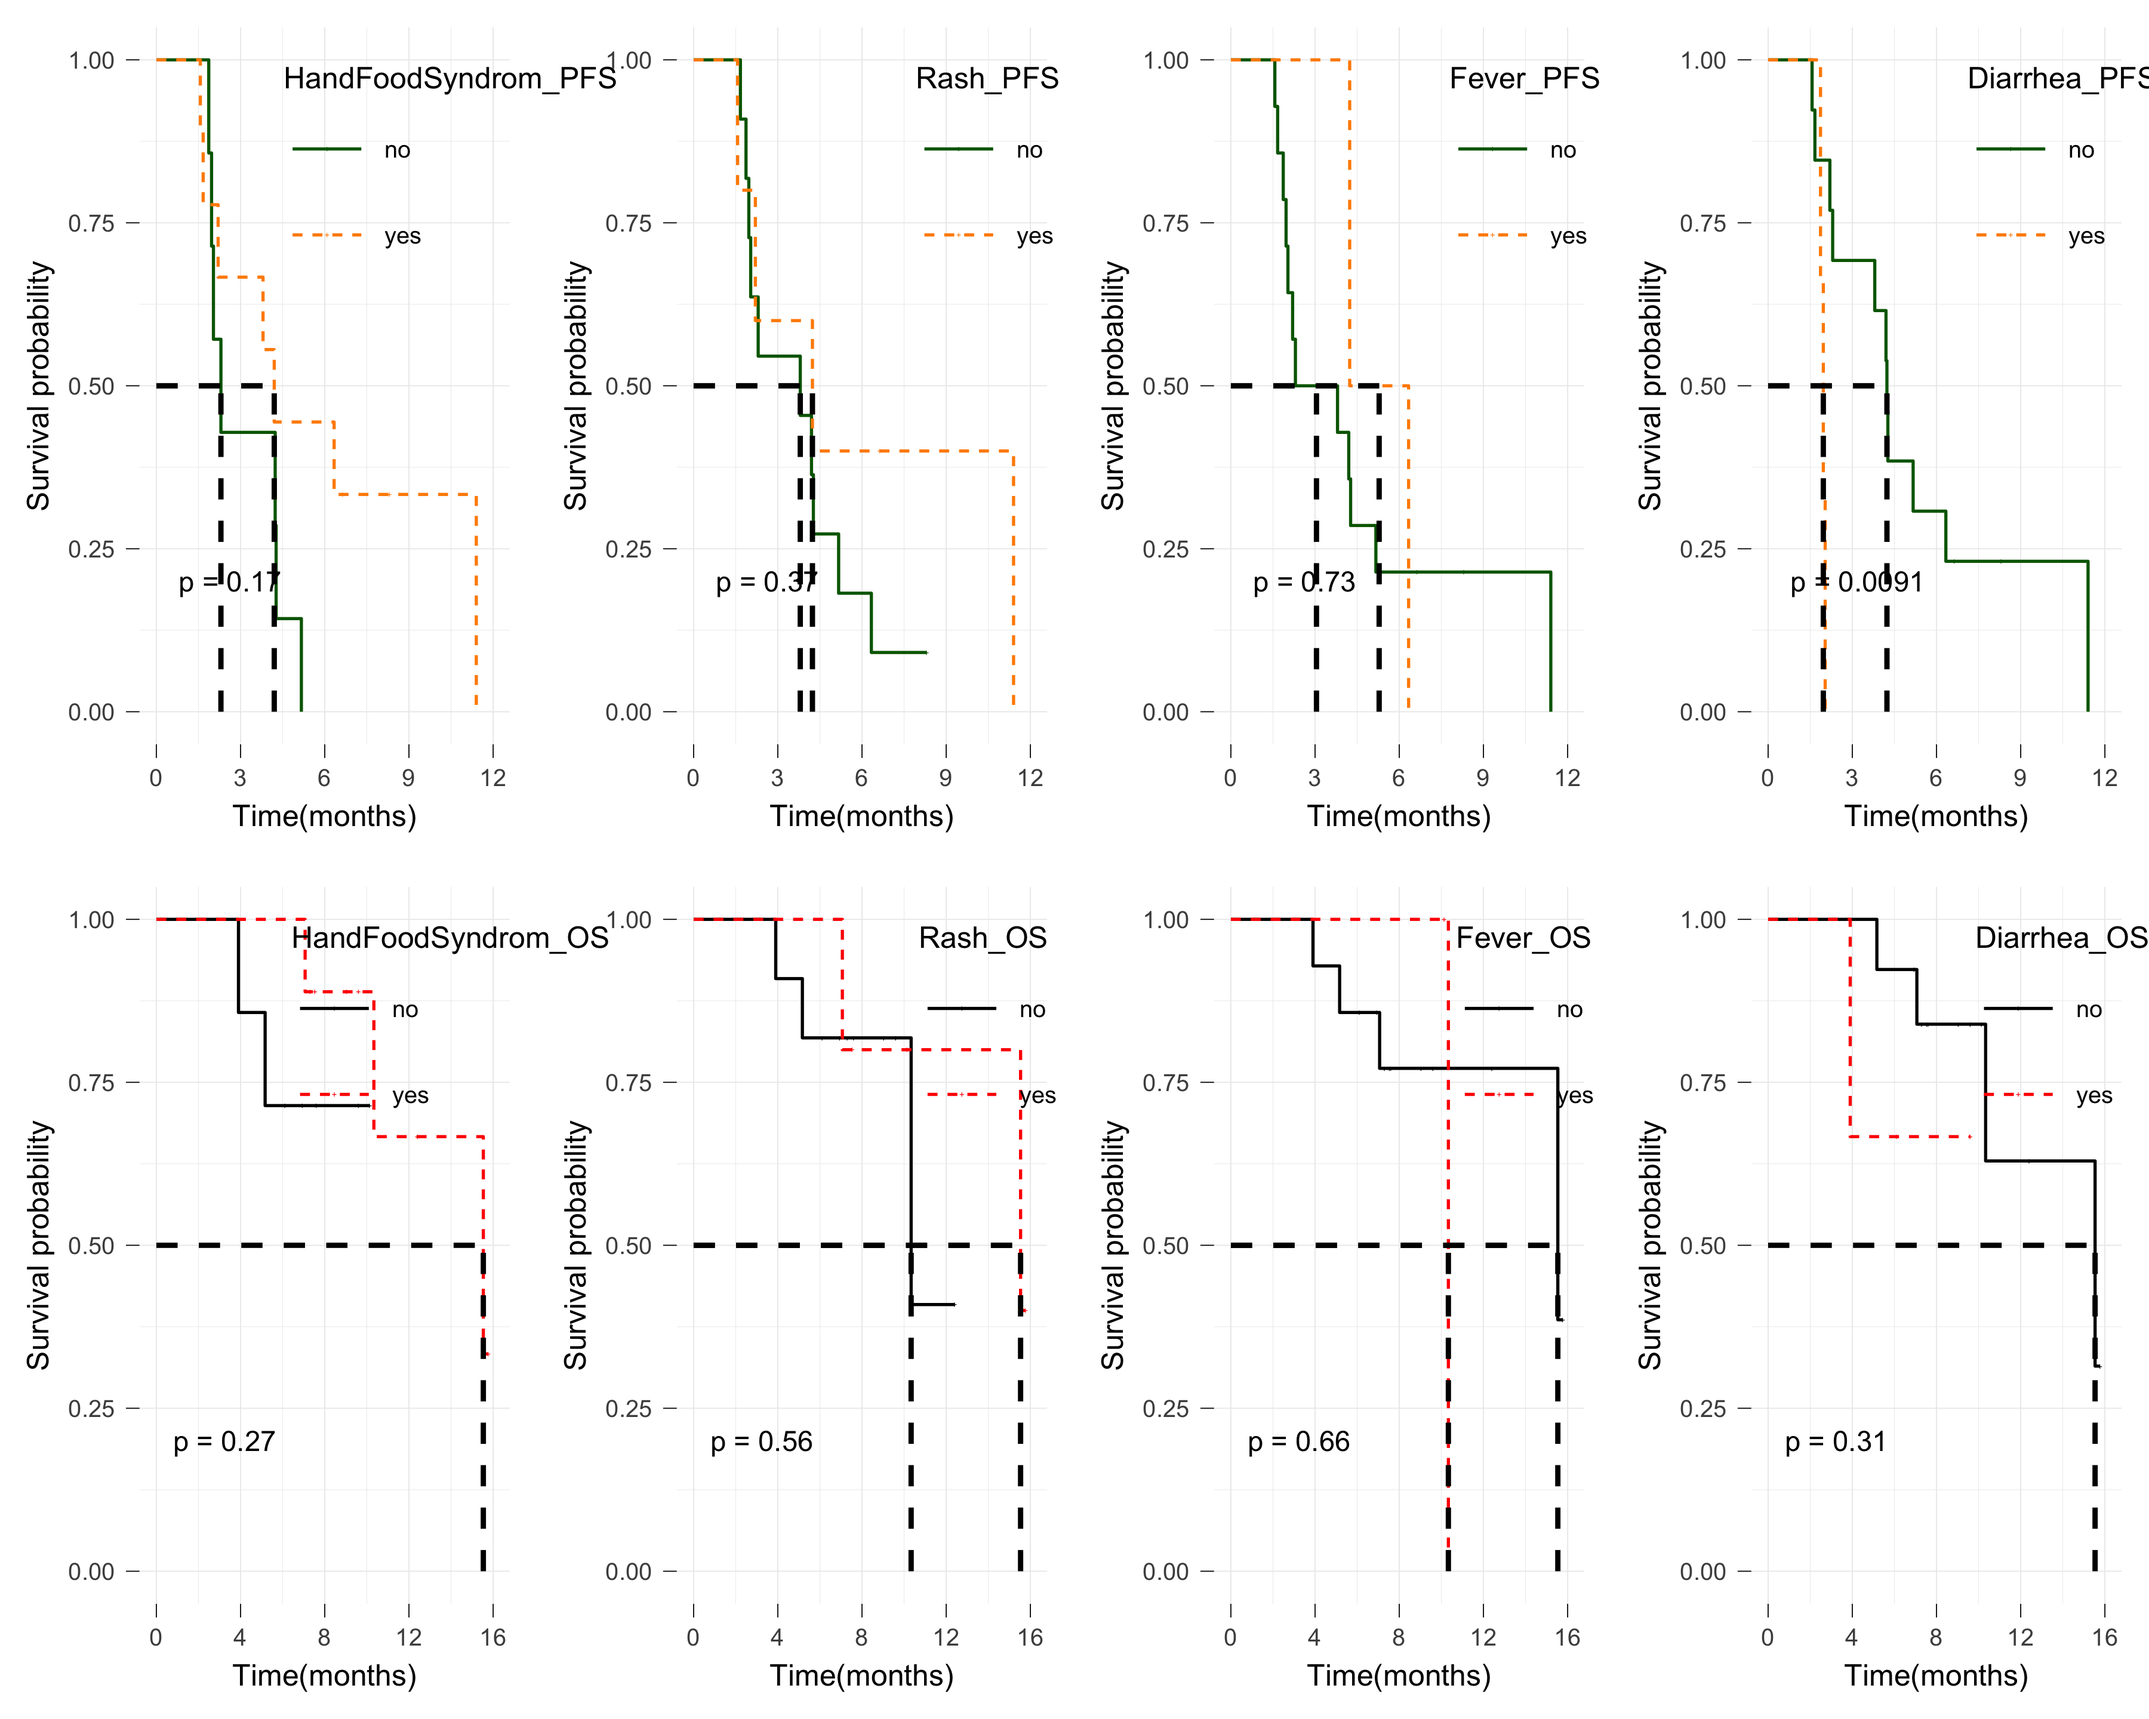
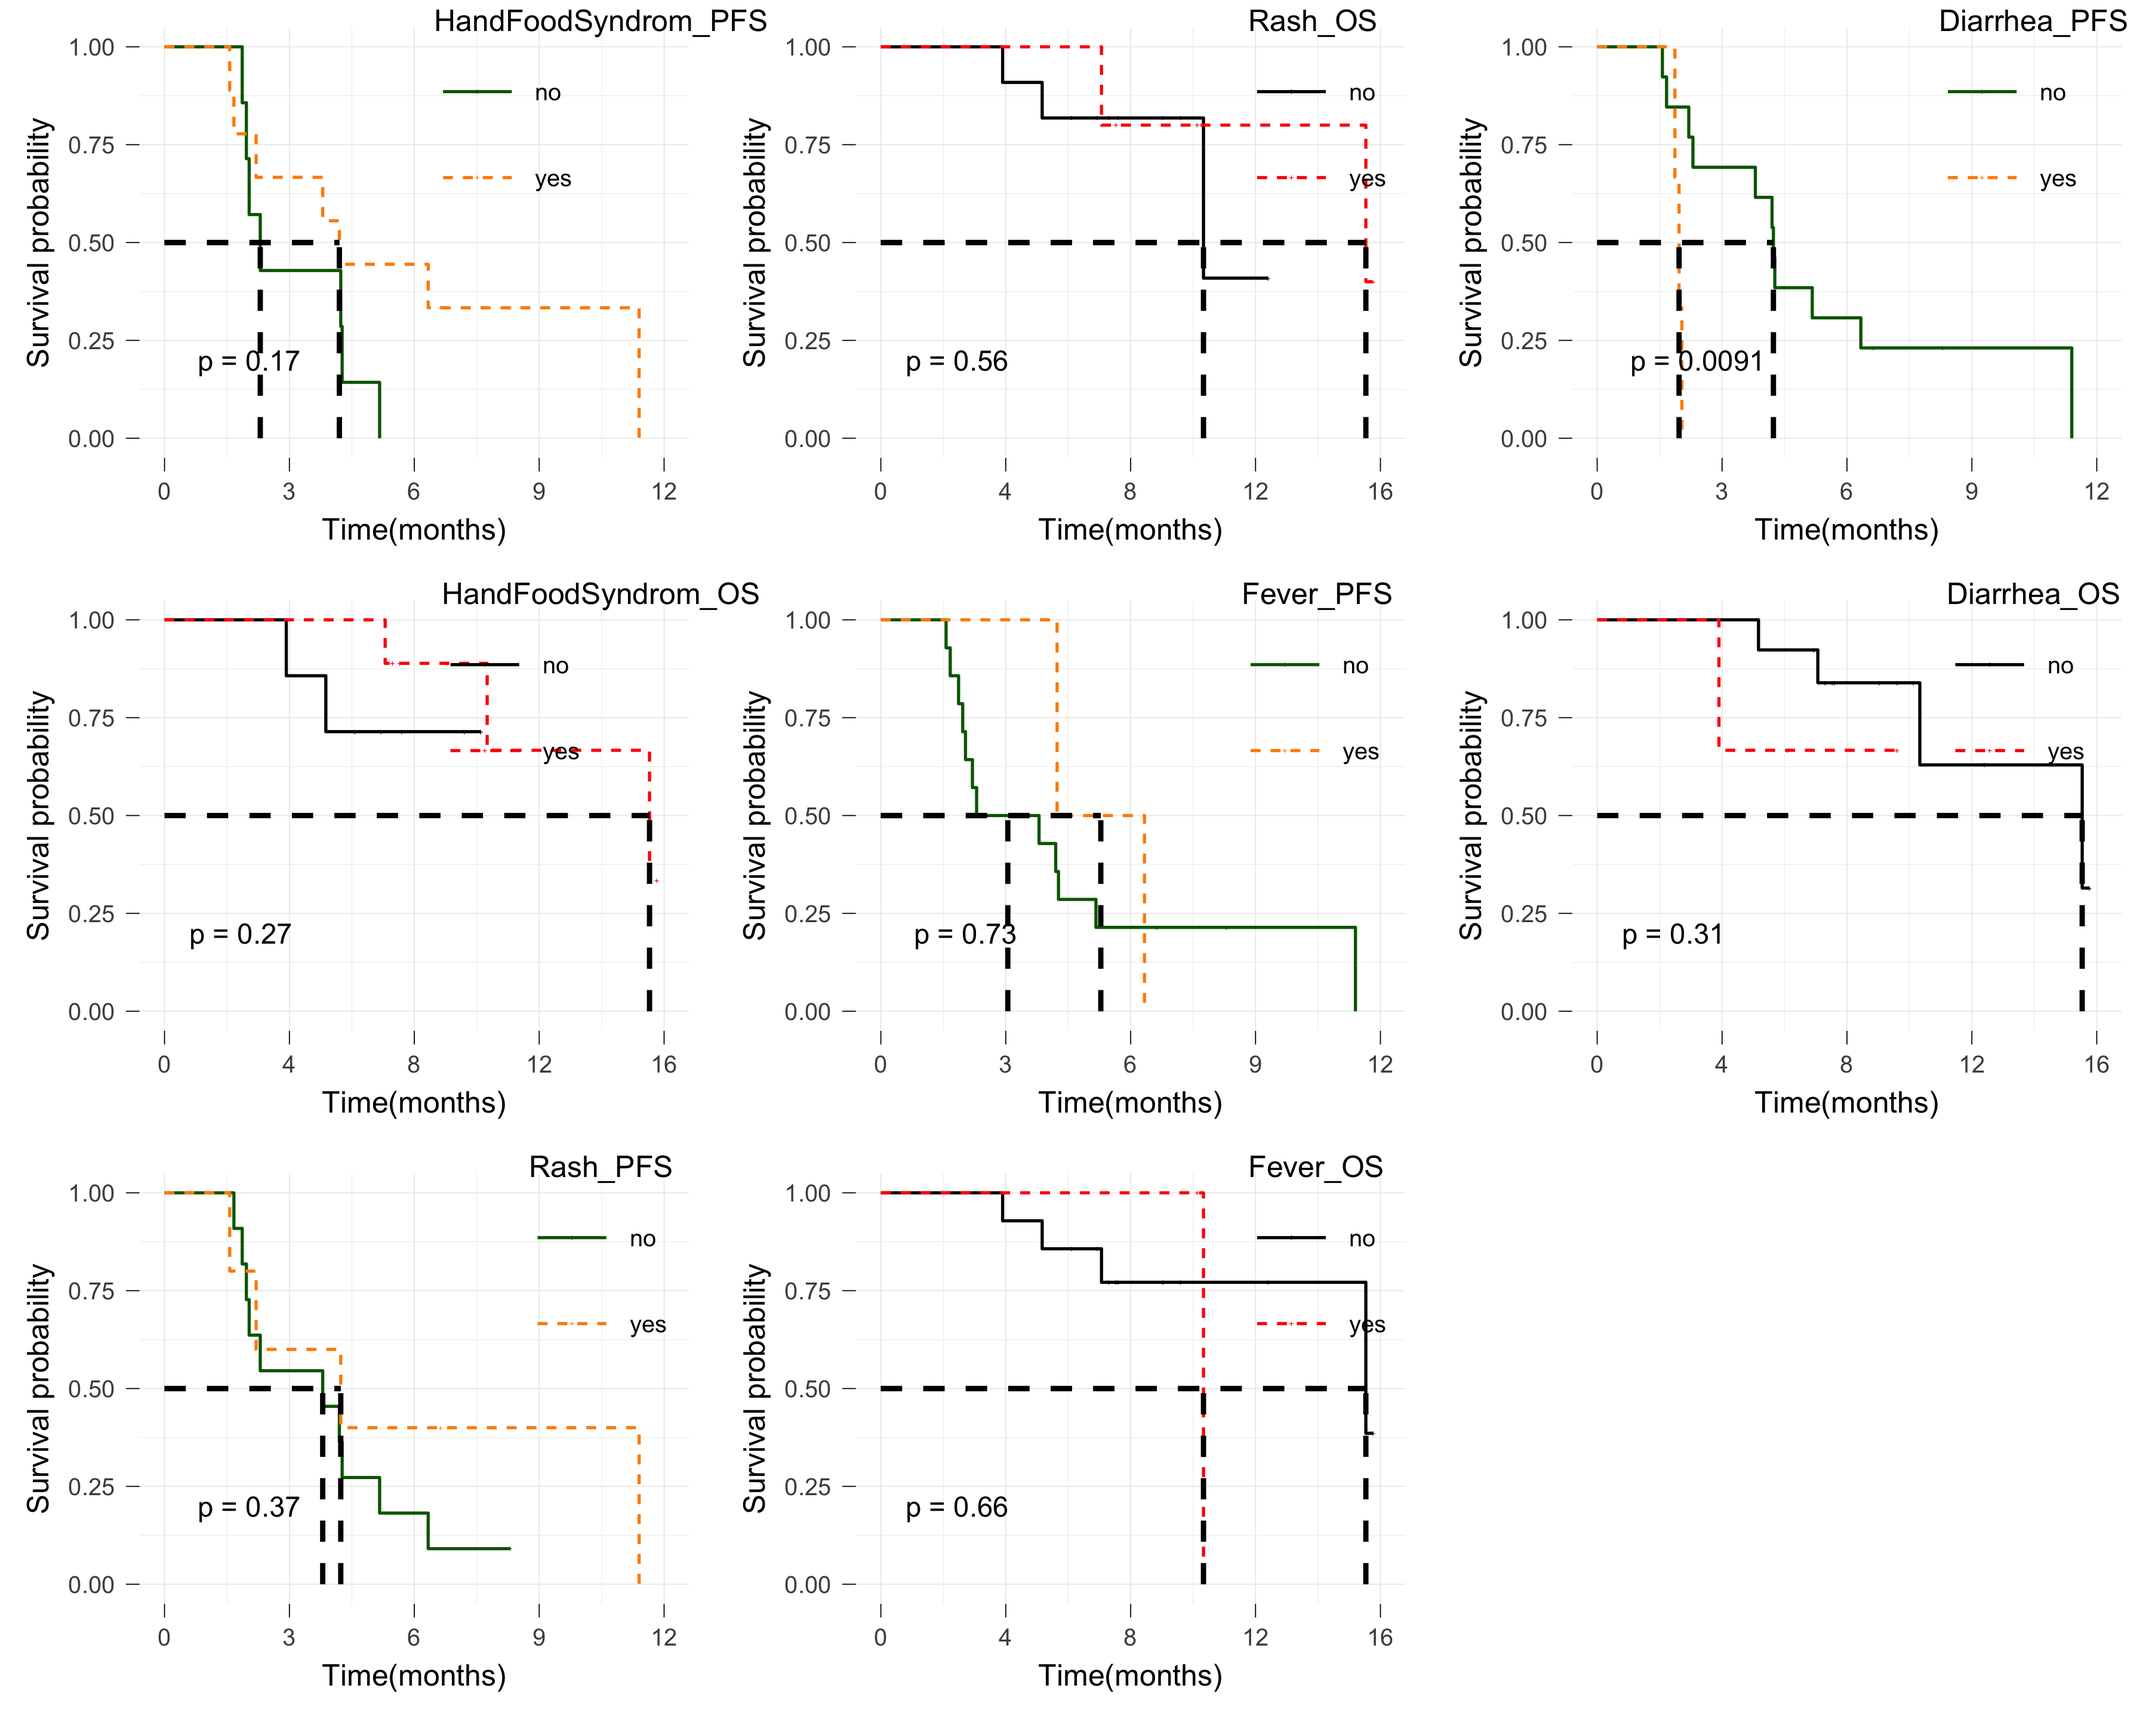
correlate the BMI and irAEs analysis publicdatasets

diff --git a/Analysis Ducoments/BMI_and_irAEs.md b/Analysis Ducoments/BMI_and_irAEs.md
@@ -191,7 +191,8 @@
               y = "Bacteroidetes",size=0.5,alpha=0.4,color="Cancer",
               palette = "jco",add.params = list(alpha=0.5,size=0.5),
               add = "reg.line", conf.int = TRUE)+
-      stat_cor(aes(color=Cancer),label.x = 0.55,size=1)
+      stat_cor(aes(color=Cancer),label.x = 0.55,size=1)+
+      theme(legend.text = element_text(size=5))
 
     plot_grid(p1,p2,labels = c("A","B"), ncol =2, nrow = 1)
 
@@ -254,7 +255,7 @@
         title = "Diarrhea_PFS")
     splots[[8]] <- surv_plot(fit_OS, df_treat, colors = c("black", "red"), title = "Diarrhea_OS")
     require(survminer)
-    arrange_ggsurvplots(x = splots, print = TRUE, ncol = 4, nrow = 2)
+    arrange_ggsurvplots(x = splots, print = TRUE, ncol = 3, nrow = 3)
 
 <img src="BMI_and_irAEs_files/figure-markdown_strict/unnamed-chunk-7-1.png" style="display: block; margin: auto;" />
 
